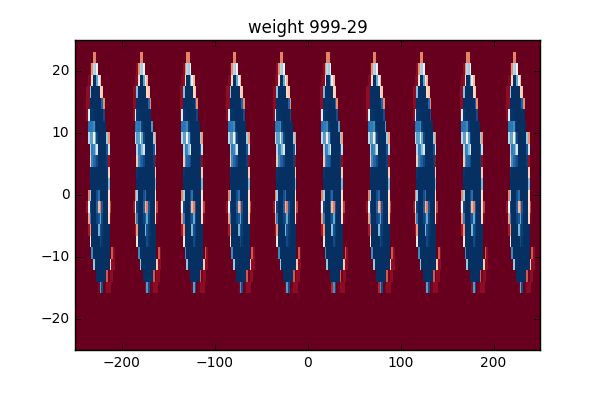
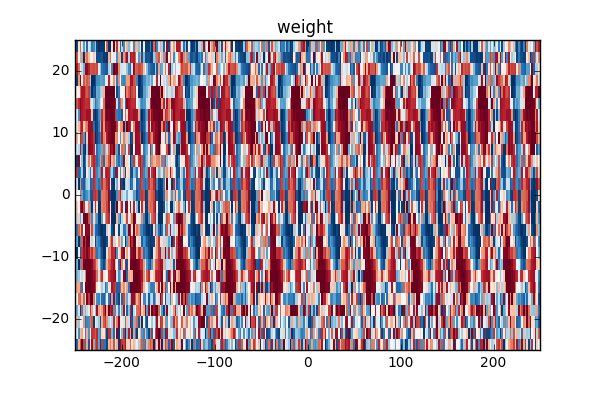
74.58%

diff --git a/4_snn_stdp_supervised.py b/4_snn_stdp_supervised.py
@@ -37,7 +37,7 @@ Wmin = 0 #-56*(10**-3)
 W = torch.FloatTensor(N,size*size).uniform_(Wmin,Wmax).cuda()
 
 # Threshold
-Vth = 0.81
+Vth = 0.6 #0.6
 
 # train step
 train_step = 2
@@ -95,7 +95,8 @@ def ninc(coeff, dt, invList): # natural increase
     
     return filt * aLTP * P.expand(N,size*size) * math.exp(dt/tau_ltp)
 
-#%%
+
+acc = 0
 # Train
 while(i < train_size):
     # Artificial Spiking List
@@ -104,8 +105,9 @@ while(i < train_size):
     inList = torch.LongTensor(0).zero_().cuda() # Artificial increasing List
     holdList = torch.LongTensor(0).zero_().cuda() # Holding list
     
-    # Recent Spike Timing
-    print("---" + str(i))
+    # Step
+    if(i%100 == 0):
+        print("---" + str(i))
     
     # Natural Output Spiking
     sampling = torch.bernoulli(input[:,i:i+M]).cuda()
@@ -160,7 +162,7 @@ while(i < train_size):
                 postNeuron[:,k] = deList
                 
                 # Q update
-                dpost = (tpostRecent - deList * k).float() * ts
+                dpost = (tpostRecent - deList * (j*Tn + k)).float() * ts
                 tpostRecent = (1-deList) * tpostRecent + deList * (j*Tn + k)
                 Q = updateQ(dpost, postNeuron[:,k].float())
                 
@@ -169,7 +171,7 @@ while(i < train_size):
                 preNeuron[:,k] = sampling[:,0]
                 
                 # P update
-                dpre = (tpreRecent.float() - sampling[:,0] * k) * ts
+                dpre = (tpreRecent.float() - sampling[:,0] * (j*Tn + k)) * ts
                 tpreRecent = (1-sampling[:,0].long()) * tpreRecent + sampling[:,0].long() * (j*Tn + k)
                 P = updateP(dpre, preNeuron[:,k].float())
                 
@@ -186,7 +188,7 @@ while(i < train_size):
                 postNeuron[:,k] = inList
                 
                 # Q update
-                dpost = (tpostRecent - inList * k).float() * ts
+                dpost = (tpostRecent - inList * (j*Tn + k)).float() * ts
                 tpostRecent = (1-inList) * tpostRecent + inList * (j*Tn + k)
                 Q = updateQ(dpost, postNeuron[:,k].float())
                 
@@ -201,7 +203,7 @@ while(i < train_size):
                     dw = ninc(0, -2*ts, (inList + deList).float())
                     W.add_(dw)
                 else:
-                    dw = ninc(0, -2*ts, (inList + deList * holdList).float())
+                    dw = ninc(0, -2*ts, (inList + deList + holdList).float())
                     W.add_(dw)
                 
             # Tn + T0
@@ -209,7 +211,7 @@ while(i < train_size):
                 postNeuron[:,k] = holdList
                 
                 # Q update
-                dpost = (tpostRecent - holdList * k).float() * ts
+                dpost = (tpostRecent - holdList * (j*Tn + k)).float() * ts
                 tpostRecent = (1-holdList) * tpostRecent + holdList * (j*Tn + k)
                 Q = updateQ(dpost, postNeuron[:,k].float())
             
@@ -225,15 +227,14 @@ while(i < train_size):
             #print("Weight" + str(i) + "-" + str(j) + " : " + str(W))
             #file3.write(str(i) + "-" + str(j) + " : " + str(W.cpu().numpy()) + "\n")
     i+=M
-
 #%%
 # Test
+fire = torch.FloatTensor(N).zero_().cuda()
+result = torch.IntTensor(10).zero_().cuda()
+acc=0
 for i in range(0,test_size):
-    sampling = torch.bernoulli(test[:,i:i+M]).cuda()
-    out = W.mm(sampling)
-    fire = out.gt(Vth).float().cuda()
-    
-    result = torch.IntTensor(10).cuda()
+    out = W.mm(test[:,i:i+M])
+    fire = out.gt(out.mean(dim=0) + 1.6*out.std(dim=0)).float().cuda()
     
     for j in range(0,10):
         result[j] = torch.sum(fire[j*post_size:(j+1)*post_size],dim=0).int()[0]
@@ -241,12 +242,42 @@ for i in range(0,test_size):
     # Superising Labels
     if(torch.max(result, dim=0)[1][0] == np.argmax(mnist.test.labels[i], axis=0)):
         acc += 1
-        print("match")
+        print("match " + str(torch.max(result, dim=0)[1][0]) + " == " + str(np.argmax(mnist.test.labels[i], axis=0)))
     else:
-        print("wrong")
+        print("wrong " + str(torch.max(result, dim=0)[1][0]) + " == " + str(np.argmax(mnist.test.labels[i], axis=0)))
 
 print("accuracy : " + str(acc))
 
 file.close()
 file2.close()
 file3.close()
+#%%
+
+# Display Var
+Dis=10
+temp = torch.FloatTensor(size,size*Dis).zero_().cuda()
+temp_in = torch.FloatTensor(size,size*Dis).zero_().cuda()
+X = np.linspace(-25*Dis,25*Dis,size*Dis)
+Y = np.linspace(-25,25,size)
+
+# graph animation
+plt.ion()
+fig = plt.figure()
+#fig2 = plt.figure()
+ax = fig.add_subplot(111)
+#ax2 = fig2.add_subplot(111)
+ax.axis([-25*Dis,25*Dis,-25,25])
+#ax2.axis([-25*N,25*N,-25,25])
+plt.draw()
+for h in range(0,Dis): #N
+    for k in range (0,size):
+        temp[k][h*size:h*size+size] = W[h][k*size:k*size+size]
+        temp_in[k][h*size:h*size+size] = input[k*size:k*size+size, i + h]
+					  
+#ax2.pcolormesh(X,Y,temp_in,cmap=plt.cm.get_cmap('gray'))
+ax.pcolormesh(X,Y,temp,cmap=plt.cm.get_cmap('RdBu'))
+plt.title('weight ')
+#plt.savefig('log/' + str(i) + '-' + str(j) + '.png')
+plt.savefig('vex.png')
+plt.show()
+plt.pause(0.00000000001)
